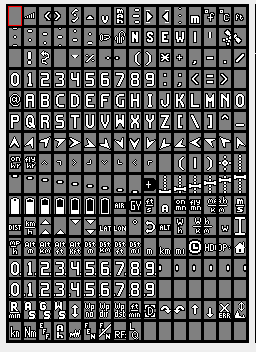
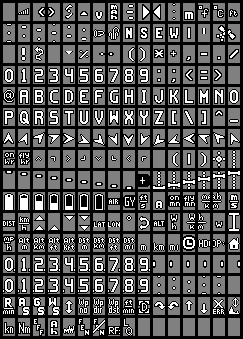
AP_OSD: Add sidebars for MAX7456

diff --git a/libraries/AP_OSD/AP_OSD_Screen.cpp b/libraries/AP_OSD/AP_OSD_Screen.cpp
@@ -715,24 +715,24 @@ const AP_Param::GroupInfo AP_OSD_Screen::var_info[] = {
     // @Description: Vertical position on screen
     // @Range: 0 15
     AP_SUBGROUPINFO(clk, "CLK", 43, AP_OSD_Screen, AP_OSD_Setting),
-
-#if HAL_MSP_ENABLED
+    
     // @Param: SIDEBARS_EN
     // @DisplayName: SIDEBARS_EN
-    // @Description: Displays artificial horizon side bars (MSP OSD only)
+    // @Description: Displays artificial horizon side bars
     // @Values: 0:Disabled,1:Enabled
 
     // @Param: SIDEBARS_X
     // @DisplayName: SIDEBARS_X
-    // @Description: Horizontal position on screen (MSP OSD only)
+    // @Description: Horizontal position on screen
     // @Range: 0 29
 
     // @Param: SIDEBARS_Y
     // @DisplayName: SIDEBARS_Y
-    // @Description: Vertical position on screen (MSP OSD only)
+    // @Description: Vertical position on screen
     // @Range: 0 15
     AP_SUBGROUPINFO(sidebars, "SIDEBARS", 44, AP_OSD_Screen, AP_OSD_Setting),
 
+#if HAL_MSP_ENABLED
     // @Param: CRSSHAIR_EN
     // @DisplayName: CRSSHAIR_EN
     // @Description: Displays artificial horizon crosshair (MSP OSD only)
@@ -1115,6 +1115,19 @@ uint8_t AP_OSD_AbstractScreen::symbols_lookup_table[AP_OSD_NUM_SYMBOLS];
 #define SYM_RNGFD 77
 #define SYM_LQ 78
 
+#define SYM_SIDEBAR_R_ARROW 79
+#define SYM_SIDEBAR_L_ARROW 80
+#define SYM_SIDEBAR_A 81
+#define SYM_SIDEBAR_B 82
+#define SYM_SIDEBAR_C 83
+#define SYM_SIDEBAR_D 84
+#define SYM_SIDEBAR_E 85
+#define SYM_SIDEBAR_F 86
+#define SYM_SIDEBAR_G 87
+#define SYM_SIDEBAR_H 88
+#define SYM_SIDEBAR_I 89
+#define SYM_SIDEBAR_J 90
+
 #define SYMBOL(n) AP_OSD_AbstractScreen::symbols_lookup_table[n]
 
 // constructor
@@ -1386,6 +1399,7 @@ void AP_OSD_Screen::draw_batused(uint8_t x, uint8_t y)
 //Thanks to night-ghost for the approach.
 void AP_OSD_Screen::draw_message(uint8_t x, uint8_t y)
 {
+    x = 2; //messages get rendered across a whole row. User param x is ignored.
     AP_Notify * notify = AP_Notify::get_singleton();
     if (notify) {
         int32_t visible_time = AP_HAL::millis() - notify->get_text_updated_millis();
@@ -1429,6 +1443,9 @@ void AP_OSD_Screen::draw_message(uint8_t x, uint8_t y)
 
                 //trim invisible part
                 buffer[end_position] = 0;
+            } else if (len < message_visible_width) {
+                //for short messages, start writing closer to the middle to center the text
+                x += (message_visible_width - len)/2;
             }
 
             backend->write(x, y, buffer + start_position);
@@ -1570,6 +1587,69 @@ void AP_OSD_Screen::draw_heading(uint8_t x, uint8_t y)
 void AP_OSD_Screen::draw_throttle(uint8_t x, uint8_t y)
 {
     backend->write(x, y, false, "%3d%c", gcs().get_hud_throttle(), SYMBOL(SYM_PCNT));
+}
+
+void AP_OSD_Screen::draw_sidebars(uint8_t x, uint8_t y)
+{
+    const int8_t total_sectors = 18;
+    static const uint8_t sidebar_sectors[total_sectors] = {
+        SYM_SIDEBAR_A,
+        SYM_SIDEBAR_B,
+        SYM_SIDEBAR_C,
+        SYM_SIDEBAR_D,
+        SYM_SIDEBAR_E,
+        SYM_SIDEBAR_F,
+        SYM_SIDEBAR_G,
+        SYM_SIDEBAR_E,
+        SYM_SIDEBAR_F,
+        SYM_SIDEBAR_G,
+        SYM_SIDEBAR_E,
+        SYM_SIDEBAR_F,
+        SYM_SIDEBAR_G,
+        SYM_SIDEBAR_E,
+        SYM_SIDEBAR_F,
+        SYM_SIDEBAR_H,
+        SYM_SIDEBAR_I,
+        SYM_SIDEBAR_J,
+    };
+
+    // Get altitude and airspeed, scaled to appropriate units
+    float aspd = 0.0f;
+    float alt = 0.0f;
+    AP_AHRS &ahrs = AP::ahrs();
+    WITH_SEMAPHORE(ahrs.get_semaphore());
+    bool have_speed_estimate = ahrs.airspeed_estimate(aspd);
+    if (!have_speed_estimate) { aspd = 0.0f; }
+    ahrs.get_relative_position_D_home(alt);
+    float scaled_aspd = u_scale(SPEED, aspd);
+    float scaled_alt = u_scale(ALTITUDE, -alt);
+    static const int aspd_interval = 10; //units between large tick marks
+    int alt_interval = (osd->units == AP_OSD::UNITS_AVIATION || osd->units == AP_OSD::UNITS_IMPERIAL) ? 20 : 10;
+
+    // render airspeed ladder
+    int aspd_symbol_index = fmodf(scaled_aspd, aspd_interval) / aspd_interval * total_sectors;
+    for (int i = 0; i < 7; i++){
+        if (i == 3) {
+            // the middle section of the ladder with the currrent airspeed
+            backend->write(x, y+i, false, "%3d%c%c", (int) scaled_aspd, u_icon(SPEED), SYMBOL(SYM_SIDEBAR_R_ARROW));
+        } else {
+            backend->write(x+4, y+i, false,  "%c", SYMBOL(sidebar_sectors[aspd_symbol_index]));
+        }
+        aspd_symbol_index = (aspd_symbol_index + 12) % 18;
+    }
+
+    // render the altitude ladder
+    // similar formula to above, but accounts for negative altitudes
+    int alt_symbol_index = fmodf(fmodf(scaled_alt, alt_interval) + alt_interval, alt_interval) / alt_interval * total_sectors;
+    for (int i = 0; i < 7; i++){
+        if (i == 3) {
+            // the middle section of the ladder with the currrent altitude
+            backend->write(x+16, y+i, false, "%c%d%c", SYMBOL(SYM_SIDEBAR_L_ARROW), (int) scaled_alt, u_icon(ALTITUDE));
+        } else {
+            backend->write(x+16, y+i, false,  "%c", SYMBOL(sidebar_sectors[alt_symbol_index]));
+        }
+        alt_symbol_index = (alt_symbol_index + 12) % 18;
+    }
 }
 
 //Thanks to betaflight/inav for simple and clean compass visual design
@@ -2071,6 +2151,7 @@ void AP_OSD_Screen::draw(void)
     //Note: draw order should be optimized.
     //Big and less important items should be drawn first,
     //so they will not overwrite more important ones.
+    DRAW_SETTING(sidebars);
     DRAW_SETTING(message);
     DRAW_SETTING(horizon);
     DRAW_SETTING(compass);

diff --git a/libraries/AP_OSD/AP_OSD_Backend.h b/libraries/AP_OSD/AP_OSD_Backend.h
@@ -180,6 +180,19 @@ protected:
     static const uint8_t SYM_RNGFD = 0xF7;
     static const uint8_t SYM_LQ = 0xF8;
 
+    static const uint8_t SYM_SIDEBAR_R_ARROW = 0x09;
+    static const uint8_t SYM_SIDEBAR_L_ARROW = 0x0A;
+    static const uint8_t SYM_SIDEBAR_A = 0x13;
+    static const uint8_t SYM_SIDEBAR_B = 0x14;
+    static const uint8_t SYM_SIDEBAR_C = 0x15;
+    static const uint8_t SYM_SIDEBAR_D = 0xDD;
+    static const uint8_t SYM_SIDEBAR_E = 0xDB;
+    static const uint8_t SYM_SIDEBAR_F = 0xDC;
+    static const uint8_t SYM_SIDEBAR_G = 0xDA;
+    static const uint8_t SYM_SIDEBAR_H = 0xDE;
+    static const uint8_t SYM_SIDEBAR_I = 0x11;
+    static const uint8_t SYM_SIDEBAR_J = 0x12;
+
     static constexpr uint8_t symbols[AP_OSD_NUM_SYMBOLS] {
         SYM_M,
         SYM_KM,
@@ -260,5 +273,17 @@ protected:
         SYM_FENCE_DISABLED,
         SYM_RNGFD,
         SYM_LQ,
+        SYM_SIDEBAR_R_ARROW,
+        SYM_SIDEBAR_L_ARROW,
+        SYM_SIDEBAR_A,
+        SYM_SIDEBAR_B,
+        SYM_SIDEBAR_C,
+        SYM_SIDEBAR_D,
+        SYM_SIDEBAR_E,
+        SYM_SIDEBAR_F,
+        SYM_SIDEBAR_G,
+        SYM_SIDEBAR_H,
+        SYM_SIDEBAR_I,
+        SYM_SIDEBAR_J,
     };
 };

diff --git a/libraries/AP_OSD/AP_OSD.h b/libraries/AP_OSD/AP_OSD.h
@@ -52,7 +52,7 @@ class AP_MSP;
 #define PARAM_INDEX(key, idx, group) (uint32_t(uint32_t(key) << 23 | uint32_t(idx) << 18 | uint32_t(group)))
 #define PARAM_TOKEN_INDEX(token) PARAM_INDEX(AP_Param::get_persistent_key(token.key), token.idx, token.group_element)
 
-#define AP_OSD_NUM_SYMBOLS 79
+#define AP_OSD_NUM_SYMBOLS 91
 /*
   class to hold one setting
  */
@@ -194,9 +194,9 @@ private:
 #if HAL_PLUSCODE_ENABLE
     AP_OSD_Setting pluscode{false, 0, 0};
 #endif
+    AP_OSD_Setting sidebars{false, 4, 5};
 
     // MSP OSD only
-    AP_OSD_Setting sidebars{false, 0, 0};
     AP_OSD_Setting crosshair{false, 0, 0};
     AP_OSD_Setting home_dist{true, 1, 1};
     AP_OSD_Setting home_dir{true, 1, 1};
@@ -223,6 +223,7 @@ private:
     void draw_home(uint8_t x, uint8_t y);
     void draw_throttle(uint8_t x, uint8_t y);
     void draw_heading(uint8_t x, uint8_t y);
+    void draw_sidebars(uint8_t x, uint8_t y);
     void draw_compass(uint8_t x, uint8_t y);
     void draw_wind(uint8_t x, uint8_t y);
     void draw_aspeed(uint8_t x, uint8_t y);
